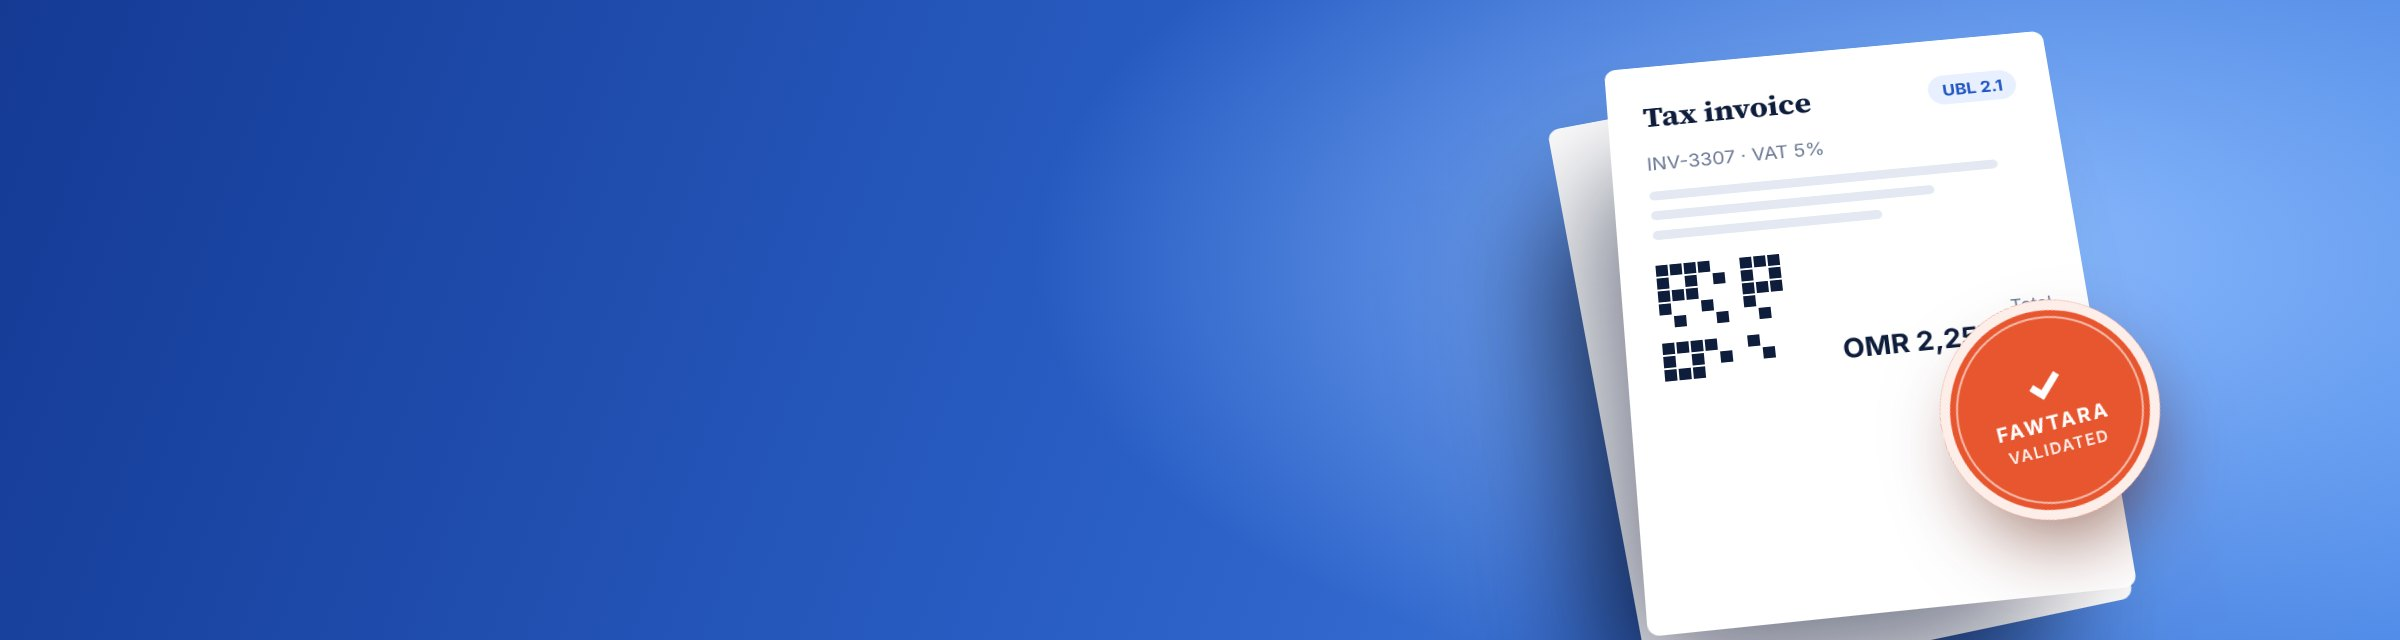
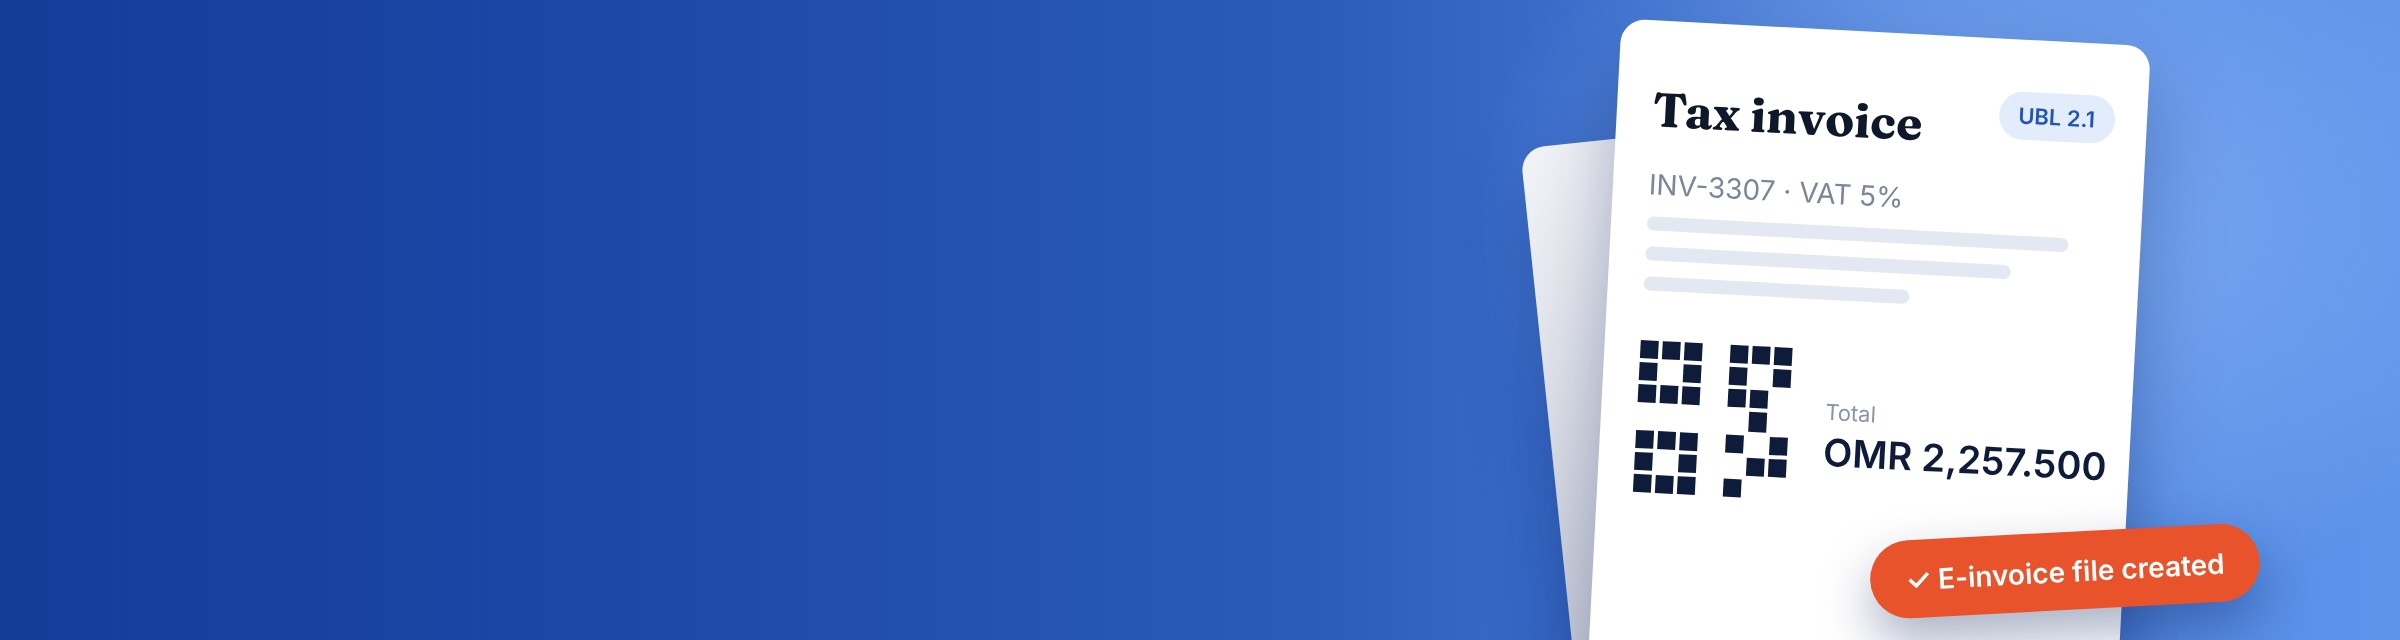
Fawtara wording: say what the product does today (file made, sending not built); replace the Fawtara validated stamp
Claude-Session: https://claude.ai/code/session_01UzKvNyuaBsm74343iuEhzv

Changed region(s): [[0.5, 0.0312, 0.9688, 1.0]]

diff --git a/src/pages/Pricing.tsx b/src/pages/Pricing.tsx
@@ -21,7 +21,7 @@ const COMPARE_ROWS = [
 const FAQS = [
   ...(PROMO.active ? [  { q: 'How does the 50% off first year offer work?', a: 'Choose any annual plan at checkout and your first 12 months are billed at half the standard annual rate. From year two onward, billing continues at the regular annual rate. The offer applies to new subscriptions only and can\u2019t be combined with other discounts.' }] : []),
   { q: 'Do all plans include every module?', a: 'Yes. Every Xion ERP plan — Solo through Enterprise — includes the full platform: accounting, sales, CRM, inventory, purchase, manufacturing, projects, assets, reporting and GCC e-invoicing. Plans differ only by the number of user seats.' },
-  { q: 'Is Xion ERP really Fawtara-ready?', a: 'Xion ERP generates e-invoices in UBL 2.1 / Peppol BIS 3.0 format, aligned with Oman\u2019s Fawtara e-invoicing requirements ahead of the OTA phased rollout. See our Compliance page for the full timeline.' },
+  { q: 'Does Xion ERP support Fawtara e-invoicing?', a: 'Xion ERP creates the standard e-invoice file (UBL 2.1 / Peppol BIS 3.0) for each sales invoice, for you to download and pass to your Accredited Service Provider. Sending the file to the provider automatically is not built yet. See our Compliance page for the timeline.' },
   { q: 'Can I switch between monthly and annual billing?', a: 'Yes, you can switch billing frequency at any time from your account settings. Annual billing gives you 14 months for the price of 12.' },
   { q: 'What happens after my 30-day trial?', a: 'You can pick any plan and continue seamlessly, or your workspace pauses (your data is kept safely) until you\u2019re ready to subscribe. No credit card is required to start the trial.' },
   { q: 'Do you support multiple currencies?', a: 'Yes. Xion ERP supports OMR (to 3 decimal places), USD, LKR and other regional currencies, with real-time conversion for multi-entity and cross-border businesses.' },

diff --git a/src/pages/Home.tsx b/src/pages/Home.tsx
@@ -37,7 +37,7 @@ export default function Home() {
           </div>
           <div className="hero-note"><Check />30-day free trial &middot; No credit card required</div>
           <div className="hero-fawtara">
-            <span className="ff-badge"><Check />Fawtara-ready</span>
+            <span className="ff-badge"><Check />Fawtara e-invoice files</span>
             Built for Oman e-invoicing (UBL 2.1) ahead of the OTA rollout
           </div>
           <div className="hero-shot">
